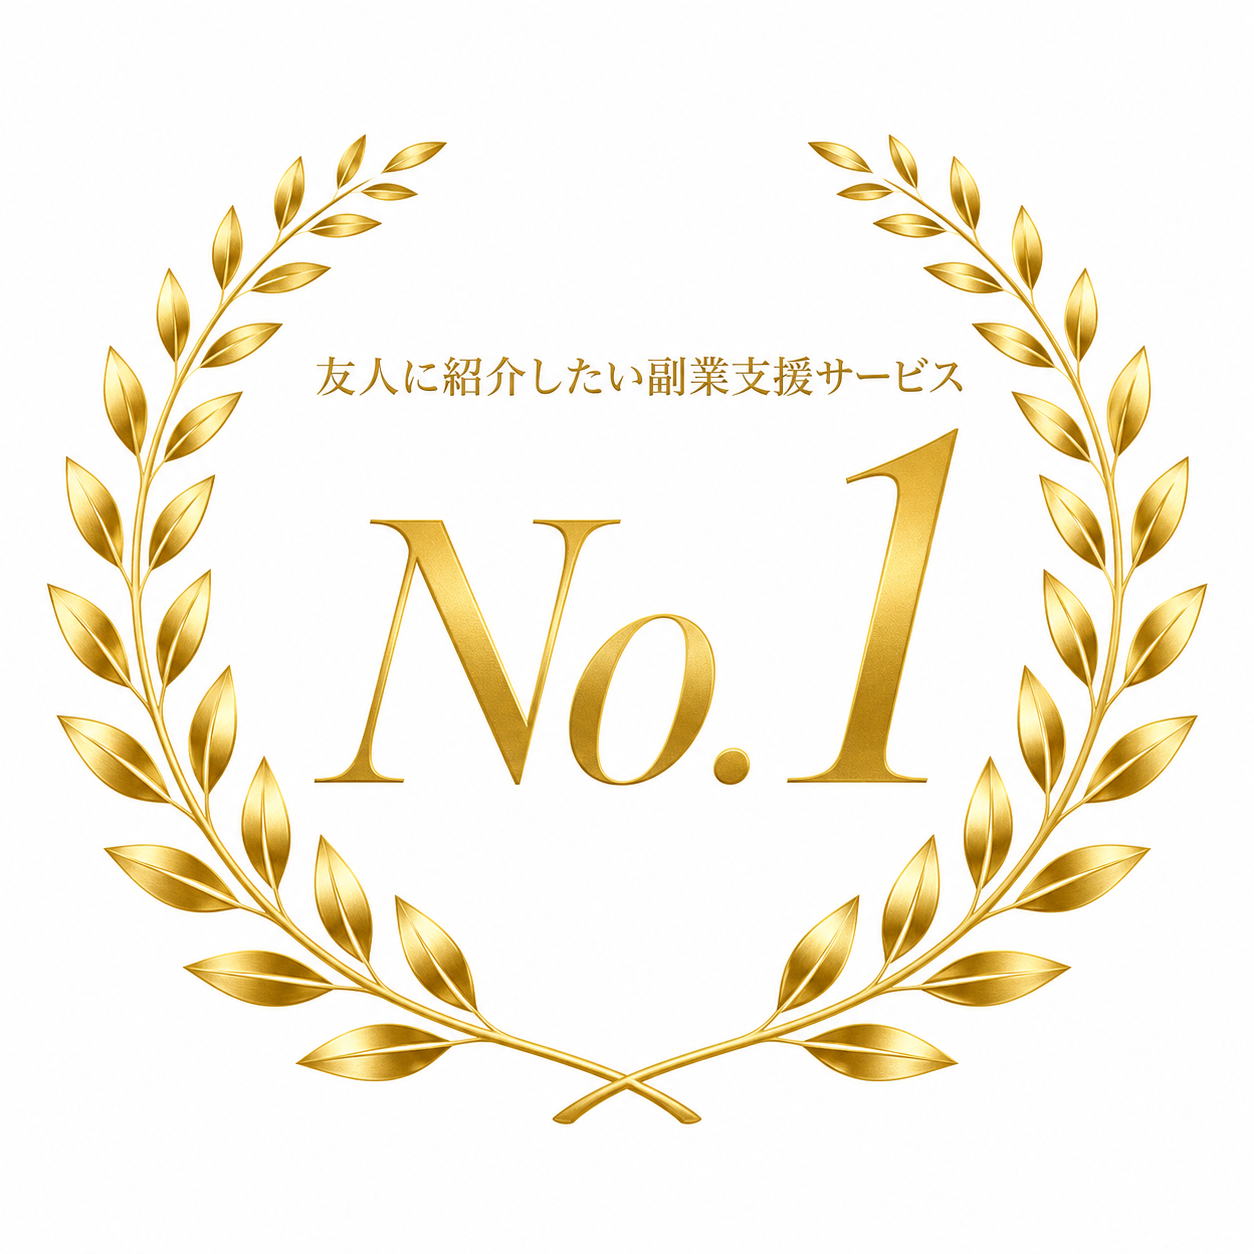
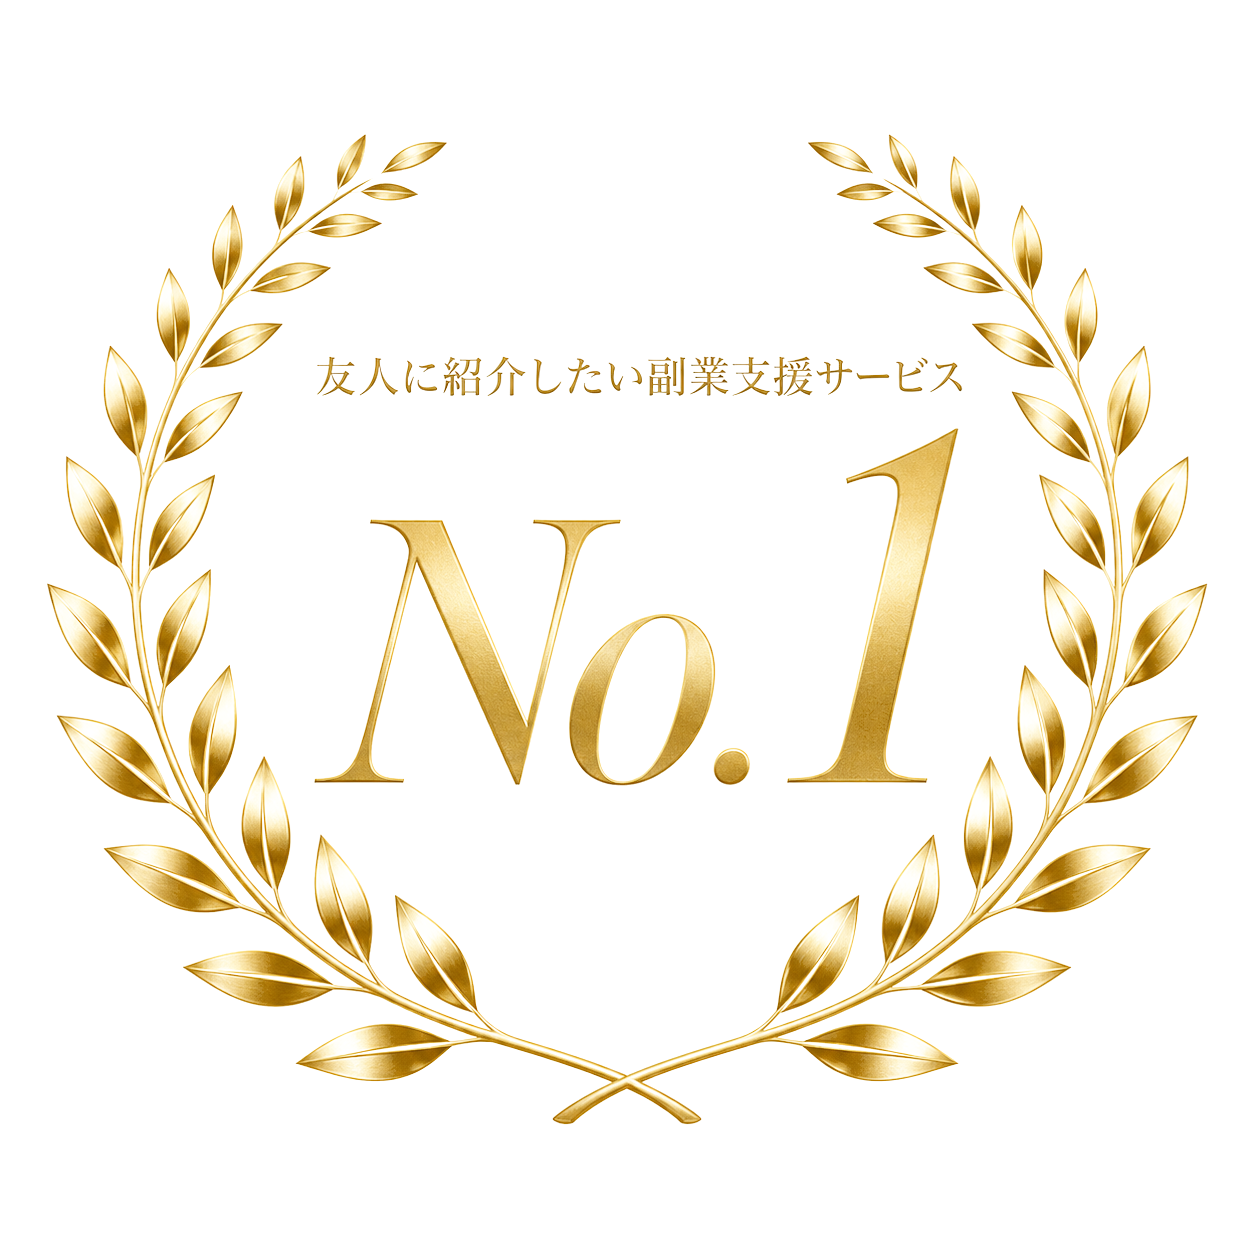
Fix: transparent badges, smaller hero photo with rounded corners

diff --git a/index.html b/index.html
@@ -198,18 +198,17 @@ h3.lp-h .u{
 .fv .badge3 img{
   width:33.33%;max-width:160px;height:auto;object-fit:contain;
   transition:transform .2s ease;
-  mix-blend-mode:multiply;
 }
 .fv .badge3 img:hover{transform:scale(1.06);}
 /* --- FV写真 --- */
 .fv-hero{
   position:relative;z-index:1;
-  width:calc(100% + 52px);margin:0 -26px;
+  margin:0 0 -36px;
   overflow:hidden;
 }
 .fv-hero img{
-  width:100%;height:auto;
-  display:block;
+  width:100%;height:220px;object-fit:cover;object-position:center 15%;
+  display:block;border-radius:12px;
 }
 /* --- リード文 --- */
 .fv .lead{
